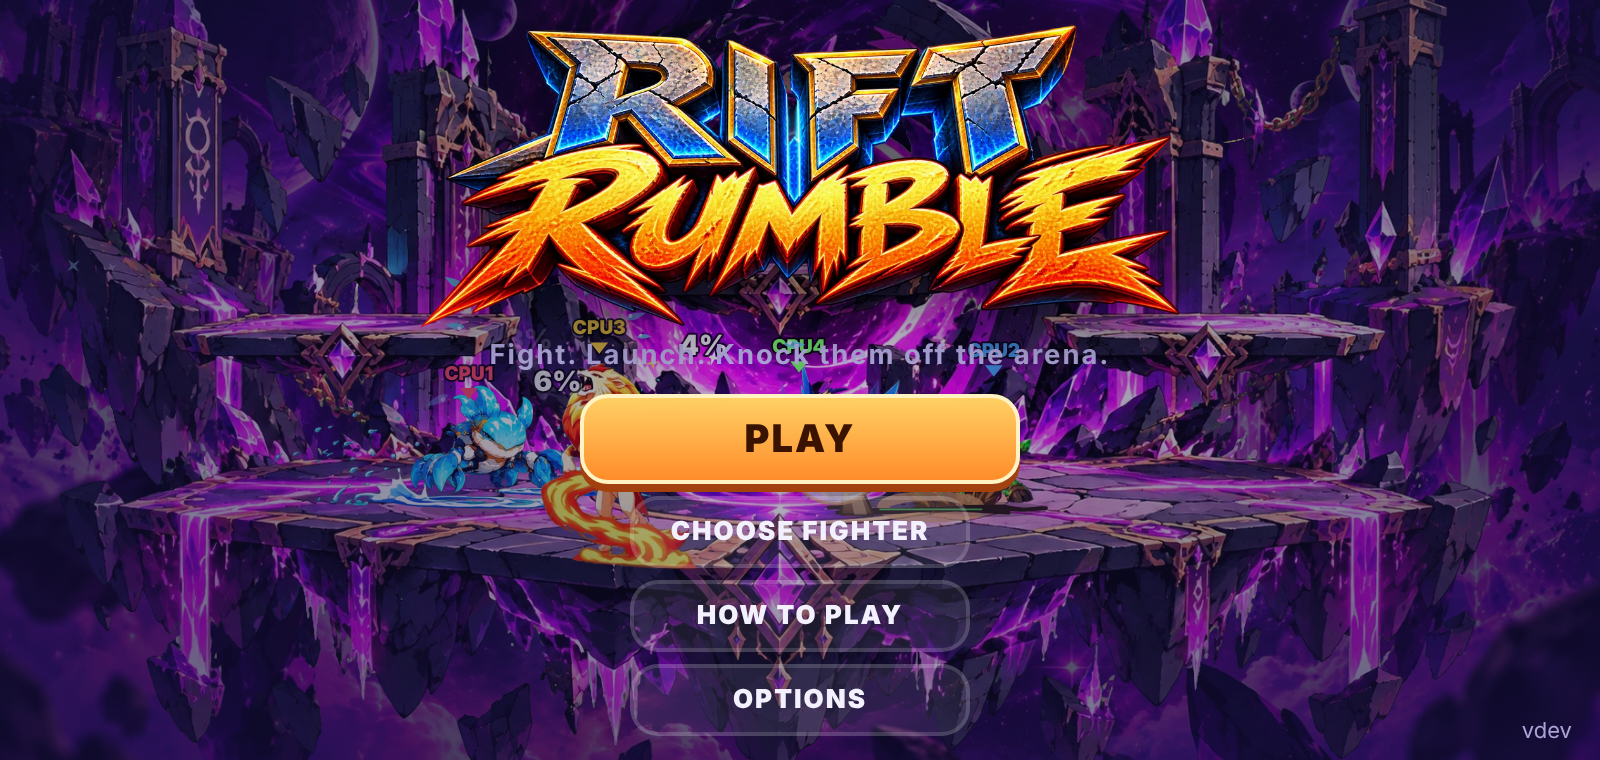
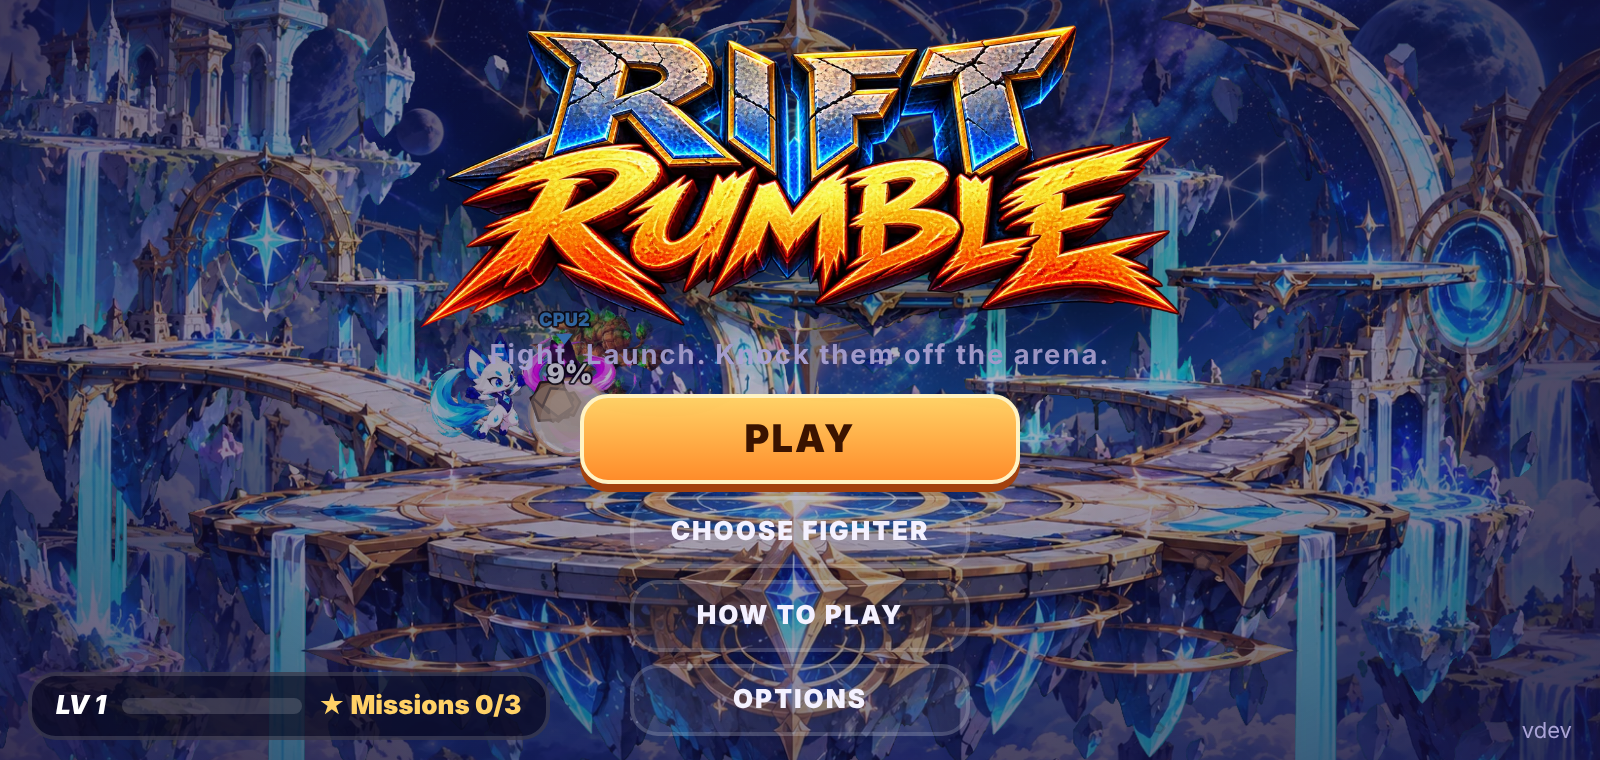
Nível, missões diárias e sequência de dias; primeira visita entra direto na luta; NEXT FIGHT
- web/js/progress.js: XP por luta (vitória, KOs), níveis, 3 missões diárias com XP e bônus por dias seguidos (salvo no navegador)
- Tela inicial: selo com nível, missões e sequência; num dia novo abre as missões do dia
- Resultado: XP ganho, barra de nível, progresso das missões e NEXT FIGHT (outra luta na hora)
- Primeira visita começa uma luta fácil direto, com a dica de controles
- Celular: luta de fundo do menu com 2 lutadores (carrega mais rápido)
- CrazyGames: início de luta antes do SDK ficar pronto também é avisado

Claude-Session: https://claude.ai/code/session_0144feCwwVd7Wm19kTUF7Xzk

diff --git a/web/js/ui.js b/web/js/ui.js
@@ -36,7 +36,9 @@
 
   // ---------------- Partida demo no fundo dos menus ----------------
   function startDemo() {
-    const ids = RR.chars.list.slice().sort(() => Math.random() - 0.5).slice(0, 4);
+    // no celular a luta de fundo tem 2 lutadores (menos imagens para baixar ao abrir)
+    const touch = typeof matchMedia !== 'undefined' && matchMedia('(pointer: coarse)').matches;
+    const ids = RR.chars.list.slice().sort(() => Math.random() - 0.5).slice(0, touch ? 2 : 4);
     RR.match = new RR.Match({
       mode: 'time', time: 99999, stageId: U.pick(RR.stages.list), demo: true,
       players: ids.map((id) => ({ charId: id, type: 'cpu', level: 2 })),
@@ -290,6 +292,35 @@
   }
 
   // ---------------- Partida ----------------
+  // luta na hora: último lutador escolhido contra oponente e arena sorteados; nas primeiras lutas, bot fácil
+  function quickMatch() {
+    const opp = U.pick(RR.chars.list.filter((c) => c !== cfg.char));
+    cfg.stage = U.pick(RR.stages.list);
+    const easy = U.store.get('help', 0) < 2;
+    ui.startMatch([{ charId: cfg.char, type: 'human' }, { charId: opp, type: 'cpu', level: easy ? 0 : cfg.level }]);
+  }
+
+  // ---------------- Progresso: nível e missões ----------------
+  function levelBar(L) {
+    return `<span class="lv">${T('NV')} ${L.lv}</span><span class="xpbar"><i style="width:${Math.round((L.cur / L.need) * 100)}%"></i></span>`;
+  }
+  function missionsHTML() {
+    return RR.progress
+      .missions()
+      .map((m) => `<div class="mis${m.done ? ' done' : ''}"><span class="ck">${m.done ? '✔' : ''}</span><span class="tx">${RR.progress.missionText(m)}</span><span class="nm">${m.n}/${m.goal}</span><span class="xp">+${m.xp} XP</span></div>`)
+      .join('');
+  }
+  function refreshBadge() {
+    const done = RR.progress.missions().filter((m) => m.done).length;
+    const st = RR.progress.streak();
+    $('#progBadge').innerHTML = levelBar(RR.progress.level()) + `<span class="mc">★ ${T('Missões')} ${done}/3</span>` + (st > 1 ? `<span class="st">🔥 ${st}</span>` : '');
+  }
+  function showMissions(daily) {
+    $('#misList').innerHTML =
+      (daily ? `<div class="mis-daily">🔥 ${T('Sequência de {n} dias!').replace('{n}', daily.streak)} +${daily.bonus} XP</div>` : '') + missionsHTML();
+    show('missions');
+  }
+
   let matchesPlayed = 0;
   ui.startMatch = function (players) {
     // a partir da segunda luta, um anúncio do CrazyGames antes de começar (no app e no navegador comum não acontece nada)
@@ -362,6 +393,12 @@
     if (won) RR.platform.happy();
     $('#resTitle').textContent = T(won ? 'VITÓRIA!' : 'DERROTA');
     $('#resTitle').style.color = won ? '#ffd166' : '#ff6b6b';
+    const pr = RR.progress.record(m);
+    $('#resProg').innerHTML = pr
+      ? `<div class="res-xp">${levelBar(pr.after)}<b>+${pr.xp} XP</b>${pr.up ? `<span class="lvup">${T('SUBIU DE NÍVEL!')}</span>` : ''}</div>` +
+        `<div class="res-mis">${missionsHTML()}</div>`
+      : '';
+    refreshBadge();
     const tbl = $('#resTable');
     tbl.innerHTML = `<div class="res-row head"><span></span><span></span><span>${T('LUTADOR')}</span><span class="v">KOs</span><span class="v">${T('QUEDAS')}</span><span class="v">${T('DANO')}</span></div>`;
     rank.forEach((f, i) => {
@@ -417,13 +454,21 @@
       })
     );
     document.querySelectorAll('[data-back]').forEach((b) => b.addEventListener('click', () => ui.onBack()));
-    // JOGAR: luta na hora (último lutador escolhido, oponente e arena sorteados); nas primeiras lutas, bot fácil
     $('#quickPlay').addEventListener('click', () => {
       click();
-      const opp = U.pick(RR.chars.list.filter((c) => c !== cfg.char));
-      cfg.stage = U.pick(RR.stages.list);
-      const easy = U.store.get('help', 0) < 2;
-      ui.startMatch([{ charId: cfg.char, type: 'human' }, { charId: opp, type: 'cpu', level: easy ? 0 : cfg.level }]);
+      quickMatch();
+    });
+    $('#nextFight').addEventListener('click', () => {
+      click();
+      quickMatch();
+    });
+    $('#progBadge').addEventListener('click', () => {
+      click();
+      showMissions();
+    });
+    $('#misClose').addEventListener('click', () => {
+      click();
+      show('title');
     });
     $('#toStage').addEventListener('click', () => {
       if (sc.mode === 'win') return;
@@ -474,8 +519,16 @@
       window.removeEventListener('pointerdown', unlock);
     };
     window.addEventListener('pointerdown', unlock);
-    startDemo();
-    show('title');
+    refreshBadge();
+    if (U.store.get('help', 0) === 0) {
+      // primeira visita: direto para uma luta fácil, com a dica de controles na tela
+      quickMatch();
+    } else {
+      startDemo();
+      show('title');
+      // voltou num dia novo: mostra a sequência e as missões do dia
+      if (RR.progress.daily) showMissions(RR.progress.daily);
+    }
     const ver = document.querySelector('.version');
     if (ver && RR.VERSION) ver.textContent = 'v' + RR.VERSION.name;
     setTimeout(() => RR.update && RR.update.check(), 1500);

diff --git a/web/js/progress.js b/web/js/progress.js
@@ -1,0 +1,89 @@
+// Progresso do jogador (salvo no navegador): nível por XP, missões diárias e sequência de dias seguidos.
+// Dá motivo para voltar no dia seguinte e para jogar "só mais uma".
+(function (RR) {
+  const U = RR.U;
+  const P = (RR.progress = {});
+  const T = (s) => (RR.t ? RR.t(s) : s);
+
+  // missões: tipo, meta, XP. "{n}" vira a meta no texto
+  const POOL = [
+    { id: 'win', goal: 2, xp: 120, text: 'Vença {n} lutas' },
+    { id: 'win', goal: 3, xp: 160, text: 'Vença {n} lutas' },
+    { id: 'ko', goal: 5, xp: 120, text: 'Derrube {n} oponentes' },
+    { id: 'ko', goal: 8, xp: 160, text: 'Derrube {n} oponentes' },
+    { id: 'ult', goal: 2, xp: 120, text: 'Use o ultimate {n} vezes' },
+    { id: 'dmg', goal: 300, xp: 120, text: 'Cause {n}% de dano' },
+    { id: 'chars', goal: 3, xp: 140, text: 'Lute com {n} lutadores diferentes' },
+    { id: 'play', goal: 4, xp: 100, text: 'Jogue {n} lutas' },
+  ];
+
+  const today = (d) => {
+    const t = d || new Date();
+    return t.getFullYear() + '-' + String(t.getMonth() + 1).padStart(2, '0') + '-' + String(t.getDate()).padStart(2, '0');
+  };
+
+  const d = Object.assign({ xp: 0, day: '', streak: 0, missions: [], chars: [] }, U.store.get('prog', {}));
+  const save = () => U.store.set('prog', d);
+
+  // nível: cada nível pede 100 XP a mais que o anterior (1→2: 200, 2→3: 300...)
+  P.level = function (xp = d.xp) {
+    let lv = 1, need = 200;
+    while (xp >= need) {
+      xp -= need;
+      lv++;
+      need += 100;
+    }
+    return { lv, cur: xp, need };
+  };
+
+  // primeiro acesso do dia: missões novas e bônus da sequência
+  P.daily = null;
+  (function newDay() {
+    const now = today();
+    if (d.day === now) return;
+    const y = new Date();
+    y.setDate(y.getDate() - 1);
+    const first = !d.day;
+    d.streak = d.day === today(y) ? d.streak + 1 : 1;
+    d.day = now;
+    const pool = POOL.slice().sort(() => Math.random() - 0.5);
+    const picked = [];
+    for (const m of pool) if (picked.length < 3 && !picked.some((p) => p.id === m.id)) picked.push(m);
+    d.missions = picked.map((m) => ({ id: m.id, goal: m.goal, xp: m.xp, text: m.text, n: 0, done: false }));
+    d.chars = [];
+    const bonus = first ? 0 : 50 * Math.min(d.streak, 7);
+    d.xp += bonus;
+    if (!first) P.daily = { streak: d.streak, bonus };
+    save();
+  })();
+
+  P.missions = () => d.missions;
+  P.streak = () => d.streak;
+  P.missionText = (m) => T(m.text).replace('{n}', m.goal);
+
+  // fim de uma luta do jogador: XP e avanço das missões; devolve o resumo para a tela de resultado
+  P.record = function (m) {
+    const h = m.fighters.find((f) => f.isHuman);
+    if (!h) return null;
+    const won = m.ranking()[0] === h;
+    const before = P.level();
+    let xp = 40 + (won ? 60 : 0) + h.kos * 15;
+    if (!d.chars.includes(h.def.id)) d.chars.push(h.def.id);
+    const add = { win: won ? 1 : 0, ko: h.kos, ult: h.ultsUsed || 0, dmg: Math.round(h.dmgDealt), play: 1 };
+    const finished = [];
+    for (const ms of d.missions) {
+      if (ms.done) continue;
+      ms.n = ms.id === 'chars' ? d.chars.length : ms.n + (add[ms.id] || 0);
+      if (ms.n >= ms.goal) {
+        ms.n = ms.goal;
+        ms.done = true;
+        xp += ms.xp;
+        finished.push(ms);
+      }
+    }
+    d.xp += xp;
+    save();
+    const after = P.level();
+    return { xp, before, after, up: after.lv > before.lv, finished };
+  };
+})(window.RR);

diff --git a/web/css/style.css b/web/css/style.css
@@ -196,3 +196,30 @@ input[type=range] { width: 46%; accent-color: var(--accent); touch-action: pan-x
 @media (hover: hover) and (pointer: fine) {
   #controls { display: none; }
 }
+
+/* ---------- Progresso: nível, missões ---------- */
+.prog-badge { position: absolute; left: 14px; bottom: 10px; display: flex; align-items: center; gap: 8px; padding: 7px 12px; border-radius: 14px;
+  background: rgba(10,8,30,.7); border: 2px solid var(--line); color: var(--text); font-weight: 900; font-size: 13px; cursor: pointer; }
+.prog-badge .mc { color: var(--accent); }
+.prog-badge .st { color: #ff8c2a; }
+.lv { font-weight: 900; font-style: italic; color: #fff; white-space: nowrap; }
+.xpbar { display: inline-block; width: 90px; height: 8px; border-radius: 4px; background: rgba(255,255,255,.15); overflow: hidden; vertical-align: middle; }
+.xpbar i { display: block; height: 100%; background: linear-gradient(90deg, #ffd166, #ff8c2a); }
+.mis { display: grid; grid-template-columns: 20px 1fr auto auto; gap: 8px; align-items: center; padding: 5px 10px; border-radius: 10px;
+  background: rgba(255,255,255,.05); margin-bottom: 4px; font-size: 13px; font-weight: 700; min-width: min(440px, 86vw); }
+.mis .ck { color: #7cff6b; font-weight: 900; }
+.mis .nm { color: var(--muted); }
+.mis .xp { color: var(--accent); font-weight: 900; font-size: 11px; }
+.mis.done { opacity: .6; }
+.mis.done .tx { text-decoration: line-through; }
+.mis-daily { text-align: center; font-weight: 900; color: #ff8c2a; font-size: 17px; margin-bottom: 8px; }
+.mis-hint { margin: 2px 0; font-size: 11px; color: var(--muted); text-align: center; }
+.res-xp { display: flex; align-items: center; justify-content: center; gap: 10px; font-size: 14px; margin: 2px 0; }
+.res-xp b { color: var(--accent); }
+.res-xp .lvup { color: #7cff6b; font-weight: 900; font-style: italic; }
+.res-mis .mis { font-size: 11px; padding: 3px 8px; margin-bottom: 2px; }
+.modal .row .btn { min-width: 0; padding: 9px 14px; }
+@media (max-height: 420px) {
+  .res-mis .mis { padding: 1px 8px; }
+  .res-row { padding: 2px 8px; }
+}

diff --git a/web/index.html b/web/index.html
@@ -30,6 +30,7 @@
         <button class="btn" data-go="options">OPÇÕES</button>
       </div>
     </div>
+    <button class="prog-badge" id="progBadge"></button>
     <div class="version">v1.0</div>
   </section>
 
@@ -116,11 +117,23 @@
     <div class="modal wide">
       <h2 id="resTitle">VITÓRIA!</h2>
       <div id="resTable"></div>
+      <div id="resProg"></div>
       <div class="row">
-        <button class="btn primary" id="rematch">REVANCHE</button>
+        <button class="btn primary" id="nextFight">PRÓXIMA LUTA ▶</button>
+        <button class="btn" id="rematch">REVANCHE</button>
         <button class="btn" id="resSelect">TROCAR LUTADOR</button>
         <button class="btn" id="resMenu">MENU</button>
       </div>
+    </div>
+  </section>
+
+  <!-- Missões diárias -->
+  <section class="screen overlay" id="screen-missions">
+    <div class="modal">
+      <h2>MISSÕES DIÁRIAS</h2>
+      <div id="misList"></div>
+      <p class="mis-hint">Novas missões todo dia. Volte amanhã para manter a sequência!</p>
+      <button class="btn primary" id="misClose">OK</button>
     </div>
   </section>
 
@@ -145,6 +158,7 @@
   <script src="js/characters.js"></script>
   <script src="js/stages.js"></script>
   <script src="js/i18n.js"></script>
+  <script src="js/progress.js"></script>
   <script src="js/fighter.js"></script>
   <script src="js/ai.js"></script>
   <script src="js/input.js"></script>

diff --git a/web/js/i18n.js b/web/js/i18n.js
@@ -8,6 +8,19 @@
     'Lute. Lance. Derrube da arena.': 'Fight. Launch. Knock them off the arena.',
     'JOGAR': 'PLAY',
     'ESCOLHER LUTADOR': 'CHOOSE FIGHTER',
+    'PRÓXIMA LUTA ▶': 'NEXT FIGHT ▶',
+    'MISSÕES DIÁRIAS': 'DAILY MISSIONS',
+    'Novas missões todo dia. Volte amanhã para manter a sequência!': 'New missions every day. Come back tomorrow to keep your streak!',
+    'NV': 'LV',
+    'Missões': 'Missions',
+    'Sequência de {n} dias!': '{n}-day streak!',
+    'SUBIU DE NÍVEL!': 'LEVEL UP!',
+    'Vença {n} lutas': 'Win {n} fights',
+    'Derrube {n} oponentes': 'Knock out {n} opponents',
+    'Use o ultimate {n} vezes': 'Use your ultimate {n} times',
+    'Cause {n}% de dano': 'Deal {n}% damage',
+    'Lute com {n} lutadores diferentes': 'Fight with {n} different fighters',
+    'Jogue {n} lutas': 'Play {n} fights',
     'COMO JOGAR': 'HOW TO PLAY',
     'OPÇÕES': 'OPTIONS',
     'ESCOLHA SEU LUTADOR': 'CHOOSE YOUR FIGHTER',

diff --git a/web/js/platform.js b/web/js/platform.js
@@ -25,6 +25,7 @@
     const applyMute = () => call(() => RR.audio.setMuted(sdk.game.settings && sdk.game.settings.muteAudio));
     applyMute();
     call(() => sdk.game.addSettingsChangeListener(applyMute));
+    if (wantPlay) P.gameplayStart();
   };
 
   const call = (fn) => {
@@ -36,12 +37,15 @@
   };
 
   // avisa quando a luta começa e para (o CrazyGames usa isso para saber quando pode mostrar anúncio)
+  let wantPlay = false; // luta começou antes do SDK terminar de iniciar
   P.gameplayStart = function () {
+    wantPlay = true;
     if (!sdk || playing) return;
     playing = true;
     call(() => sdk.game.gameplayStart());
   };
   P.gameplayStop = function () {
+    wantPlay = false;
     if (!sdk || !playing) return;
     playing = false;
     call(() => sdk.game.gameplayStop());

diff --git a/tools/browser-test.js b/tools/browser-test.js
@@ -10,6 +10,8 @@ const out = process.argv[2] || '.';
   const errors = [];
   page.on('pageerror', (e) => errors.push(e.message));
   page.on('console', (m) => m.type() === 'error' && errors.push(m.text()));
+  // jogador que já voltou (na primeira visita o jogo entra direto numa luta)
+  await ctx.addInitScript(() => localStorage.setItem('rr_help', '2'));
   await page.goto('file://' + path.join(__dirname, '..', 'web', 'index.html'));
   await page.waitForTimeout(1500);
   await page.screenshot({ path: out + '/1-title.png' });

diff --git a/web/js/game.js b/web/js/game.js
@@ -345,6 +345,7 @@
     // ---------------- Ultimate ----------------
     startUlt(f) {
       f.ult = 0;
+      f.ultsUsed = (f.ultsUsed || 0) + 1;
       if (!f.grounded) f.vy = Math.min(f.vy, 0) * 0.2;
       f.vx = 0;
       this.phase = 'cine';
